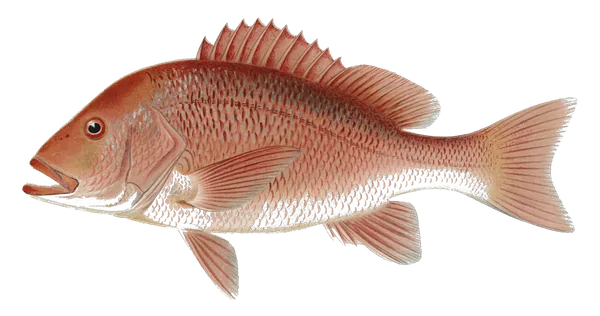
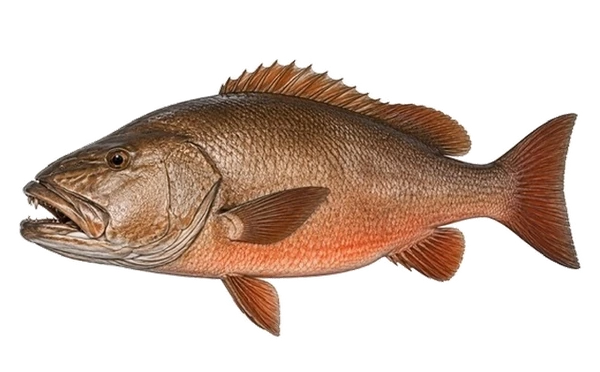
Add/refresh snapper illustrations; add Pacific red snapper
New art (luminance-cutout pipeline, transparent bg, intact fins, 600px webp):
- dog-snapper (Pacific cubera), pargo-colorado, mullet-snapper: refreshed plates
- huachinango (Lutjanus peru, Pacific Red Snapper): new plate + catch-data entry

Wire the new huachinango key into the ILLUS map; bump illus to v=21,
catch-data to v=11, site.js to v=44. All four verified rendering at 600px.

diff --git a/site/catch-data.js b/site/catch-data.js
@@ -791,6 +791,33 @@ window.CATCH = [
     "img": "/site/img/species/pargo.jpg"
   },
   {
+    "key": "huachinango",
+    "commonName": "Pacific Red Snapper (Huachinango)",
+    "spanishName": "Huachinango",
+    "scientificName": "Lutjanus peru",
+    "category": "Inshore",
+    "coasts": [
+      "Pacific",
+      "Sea of Cortez"
+    ],
+    "season": "Year-round (cooler months best)",
+    "marquee": true,
+    "baits": [
+      "live sardina",
+      "cut squid",
+      "cut bait",
+      "whole dead bait"
+    ],
+    "lures": [
+      "yo-yo iron",
+      "leadhead swimbaits / plastics",
+      "vertical jigs"
+    ],
+    "technique": "Drop bait or iron to deeper rocky reef, banks and drop-offs (often 100-300 ft); fish the bottom at first light or drift the structure edges. The classic bright-red Baja table snapper and a prized panga catch.",
+    "notes": "The famous huachinango (Lutjanus peru). Deeper-reef bright-red snapper, top table fare across Baja.",
+    "img": "/site/img/species/huachinango.jpg"
+  },
+  {
     "key": "pargo-colorado",
     "commonName": "Colorado Snapper (Pargo Colorado)",
     "spanishName": "Pargo Colorado",

diff --git a/site/site.js b/site/site.js
@@ -397,9 +397,9 @@
    'bluefin-trevally','green-jack',
    'orangemouth-corvina','shortfin-corvina',
    'yellowfin-croaker','black-croaker','spotfin-croaker',
-   'california-corbina','totoaba'
-  ].forEach(function (k) { ILLUS[k] = '/site/img/illus/' + k + '.webp?v=20'; });
-  ILLUS['pez-fuerte'] = '/site/img/illus/pez-fuerte.webp?v=20'; // almaco jack, same fish as amberjack plate
+   'california-corbina','totoaba','huachinango'
+  ].forEach(function (k) { ILLUS[k] = '/site/img/illus/' + k + '.webp?v=21'; });
+  ILLUS['pez-fuerte'] = '/site/img/illus/pez-fuerte.webp?v=21'; // almaco jack, same fish as amberjack plate
 
   /* ---- premium species explorer (driven by window.CATCH) ---- */
   function species() {

diff --git a/site/index.html b/site/index.html
@@ -461,8 +461,8 @@
 
   <script src="/data.js?v=20260529-4"></script>
   <script src="/site/departures.js?v=1"></script>
-  <script src="/site/catch-data.js?v=10"></script>
+  <script src="/site/catch-data.js?v=11"></script>
   <script src="/site/hero-video.js?v=2"></script>
-  <script src="/site/site.js?v=43"></script>
+  <script src="/site/site.js?v=44"></script>
 </body>
 </html>